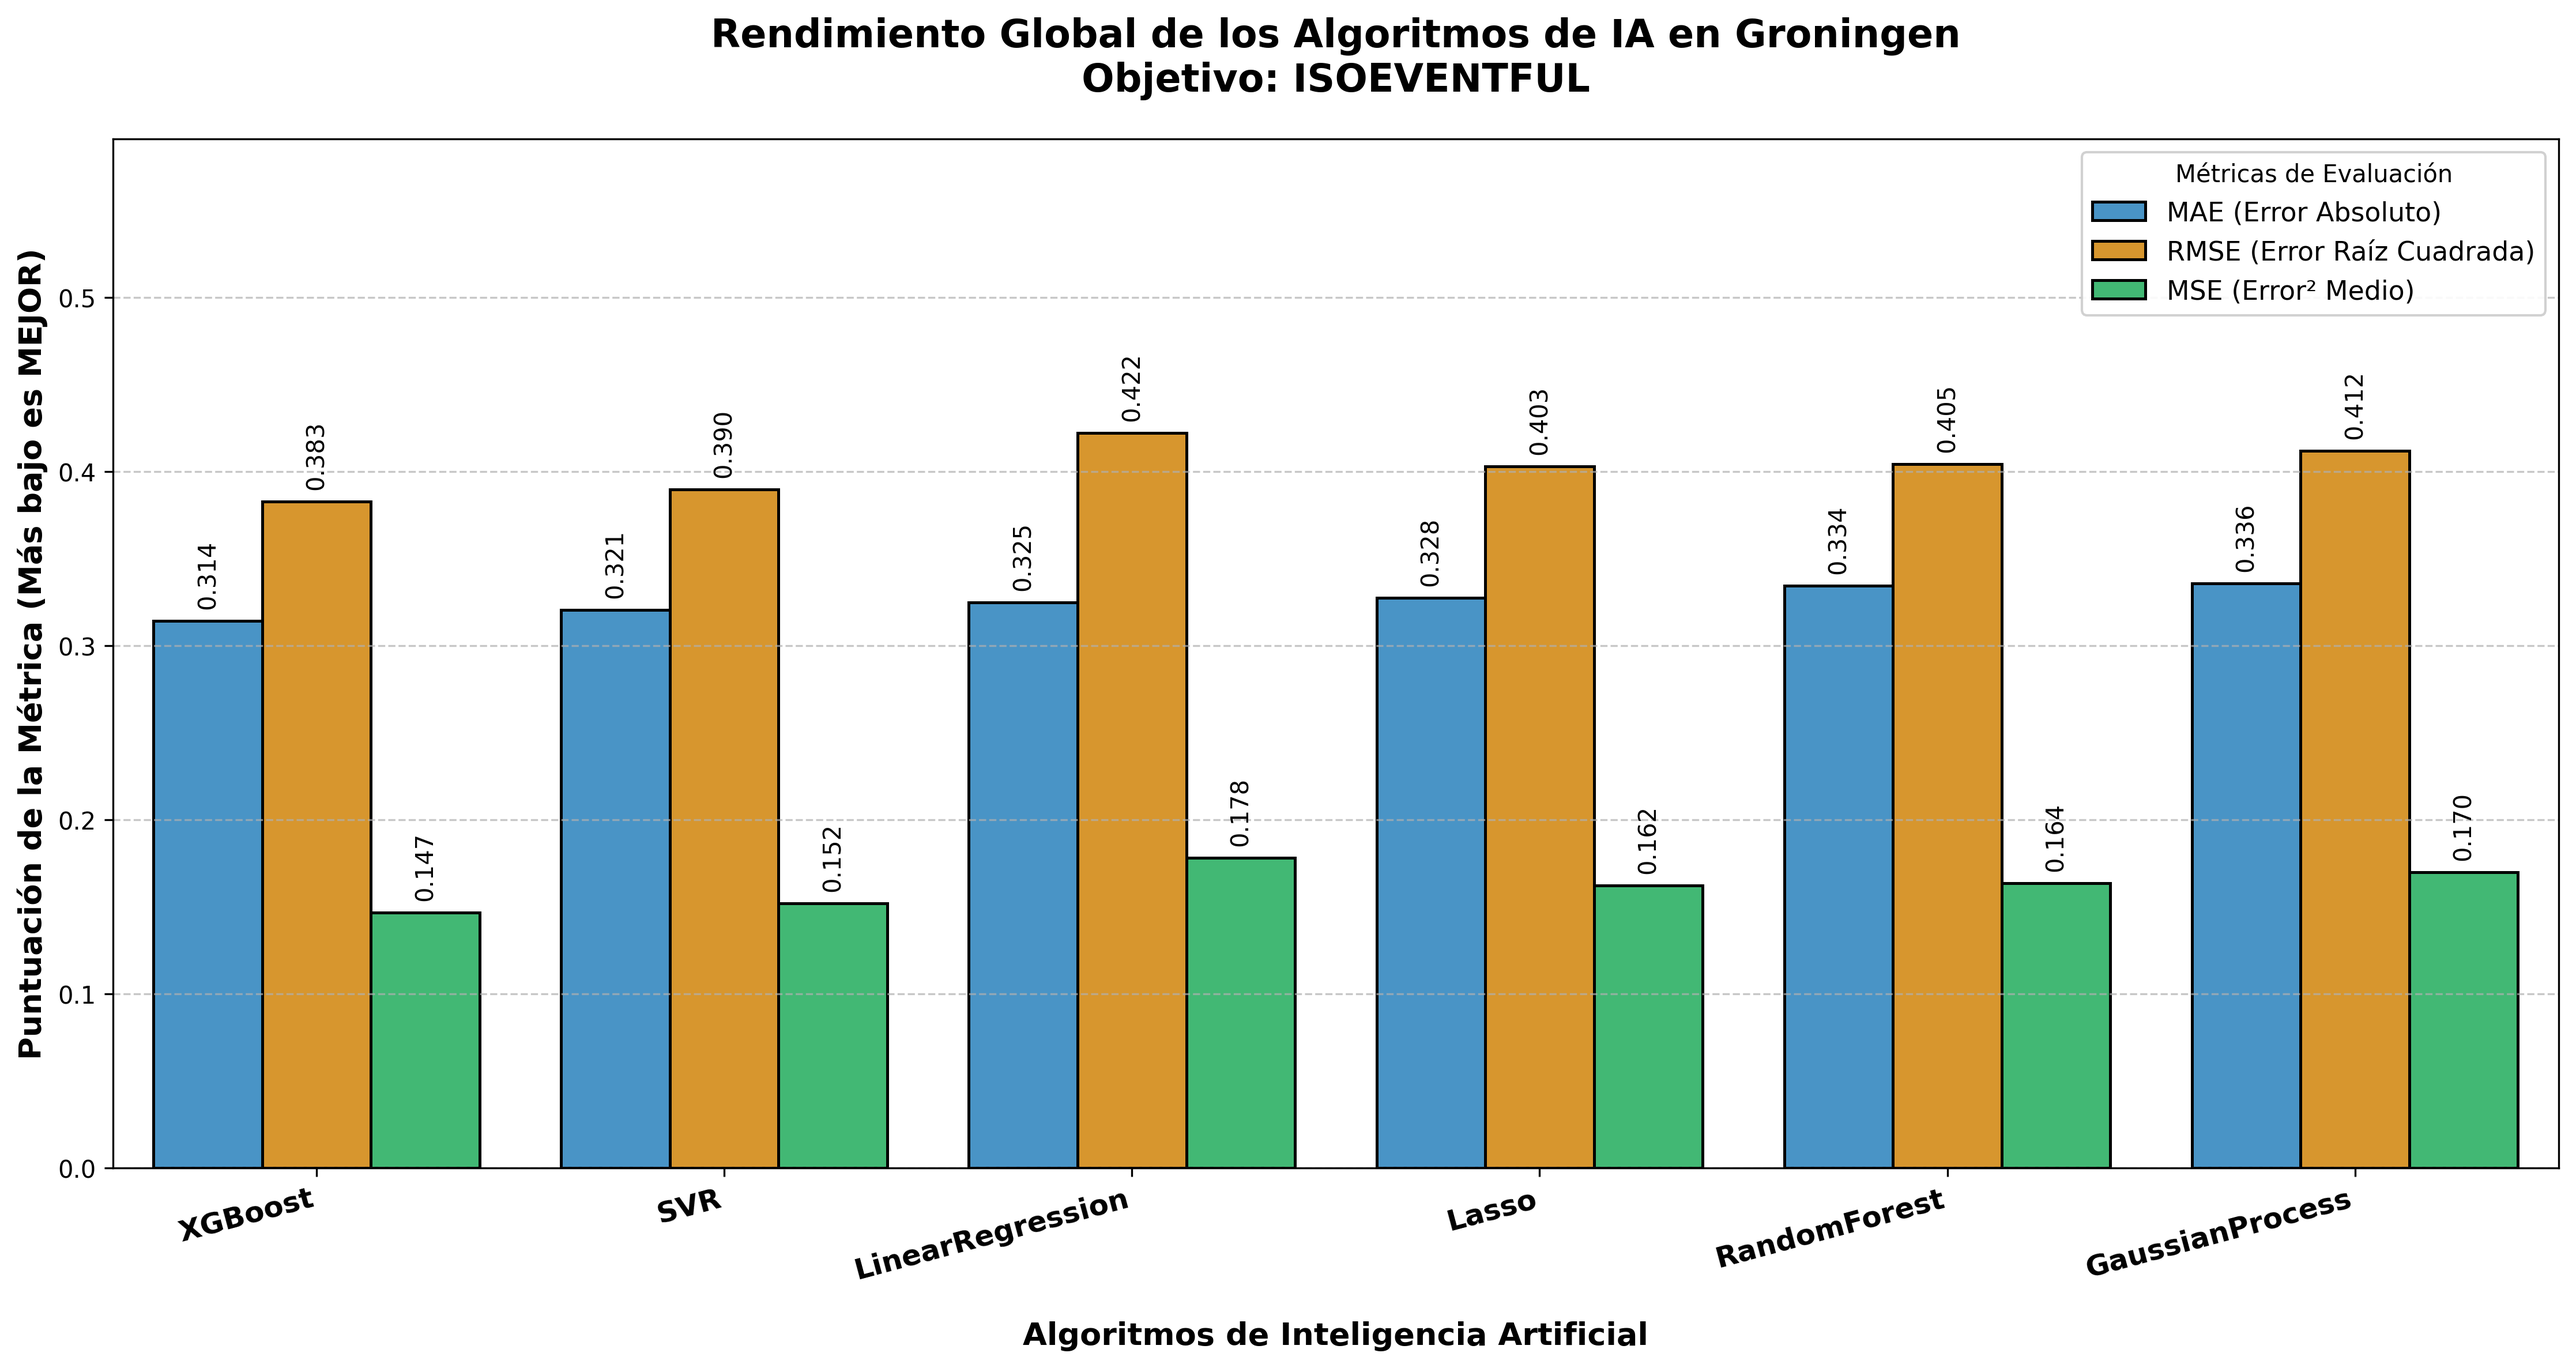
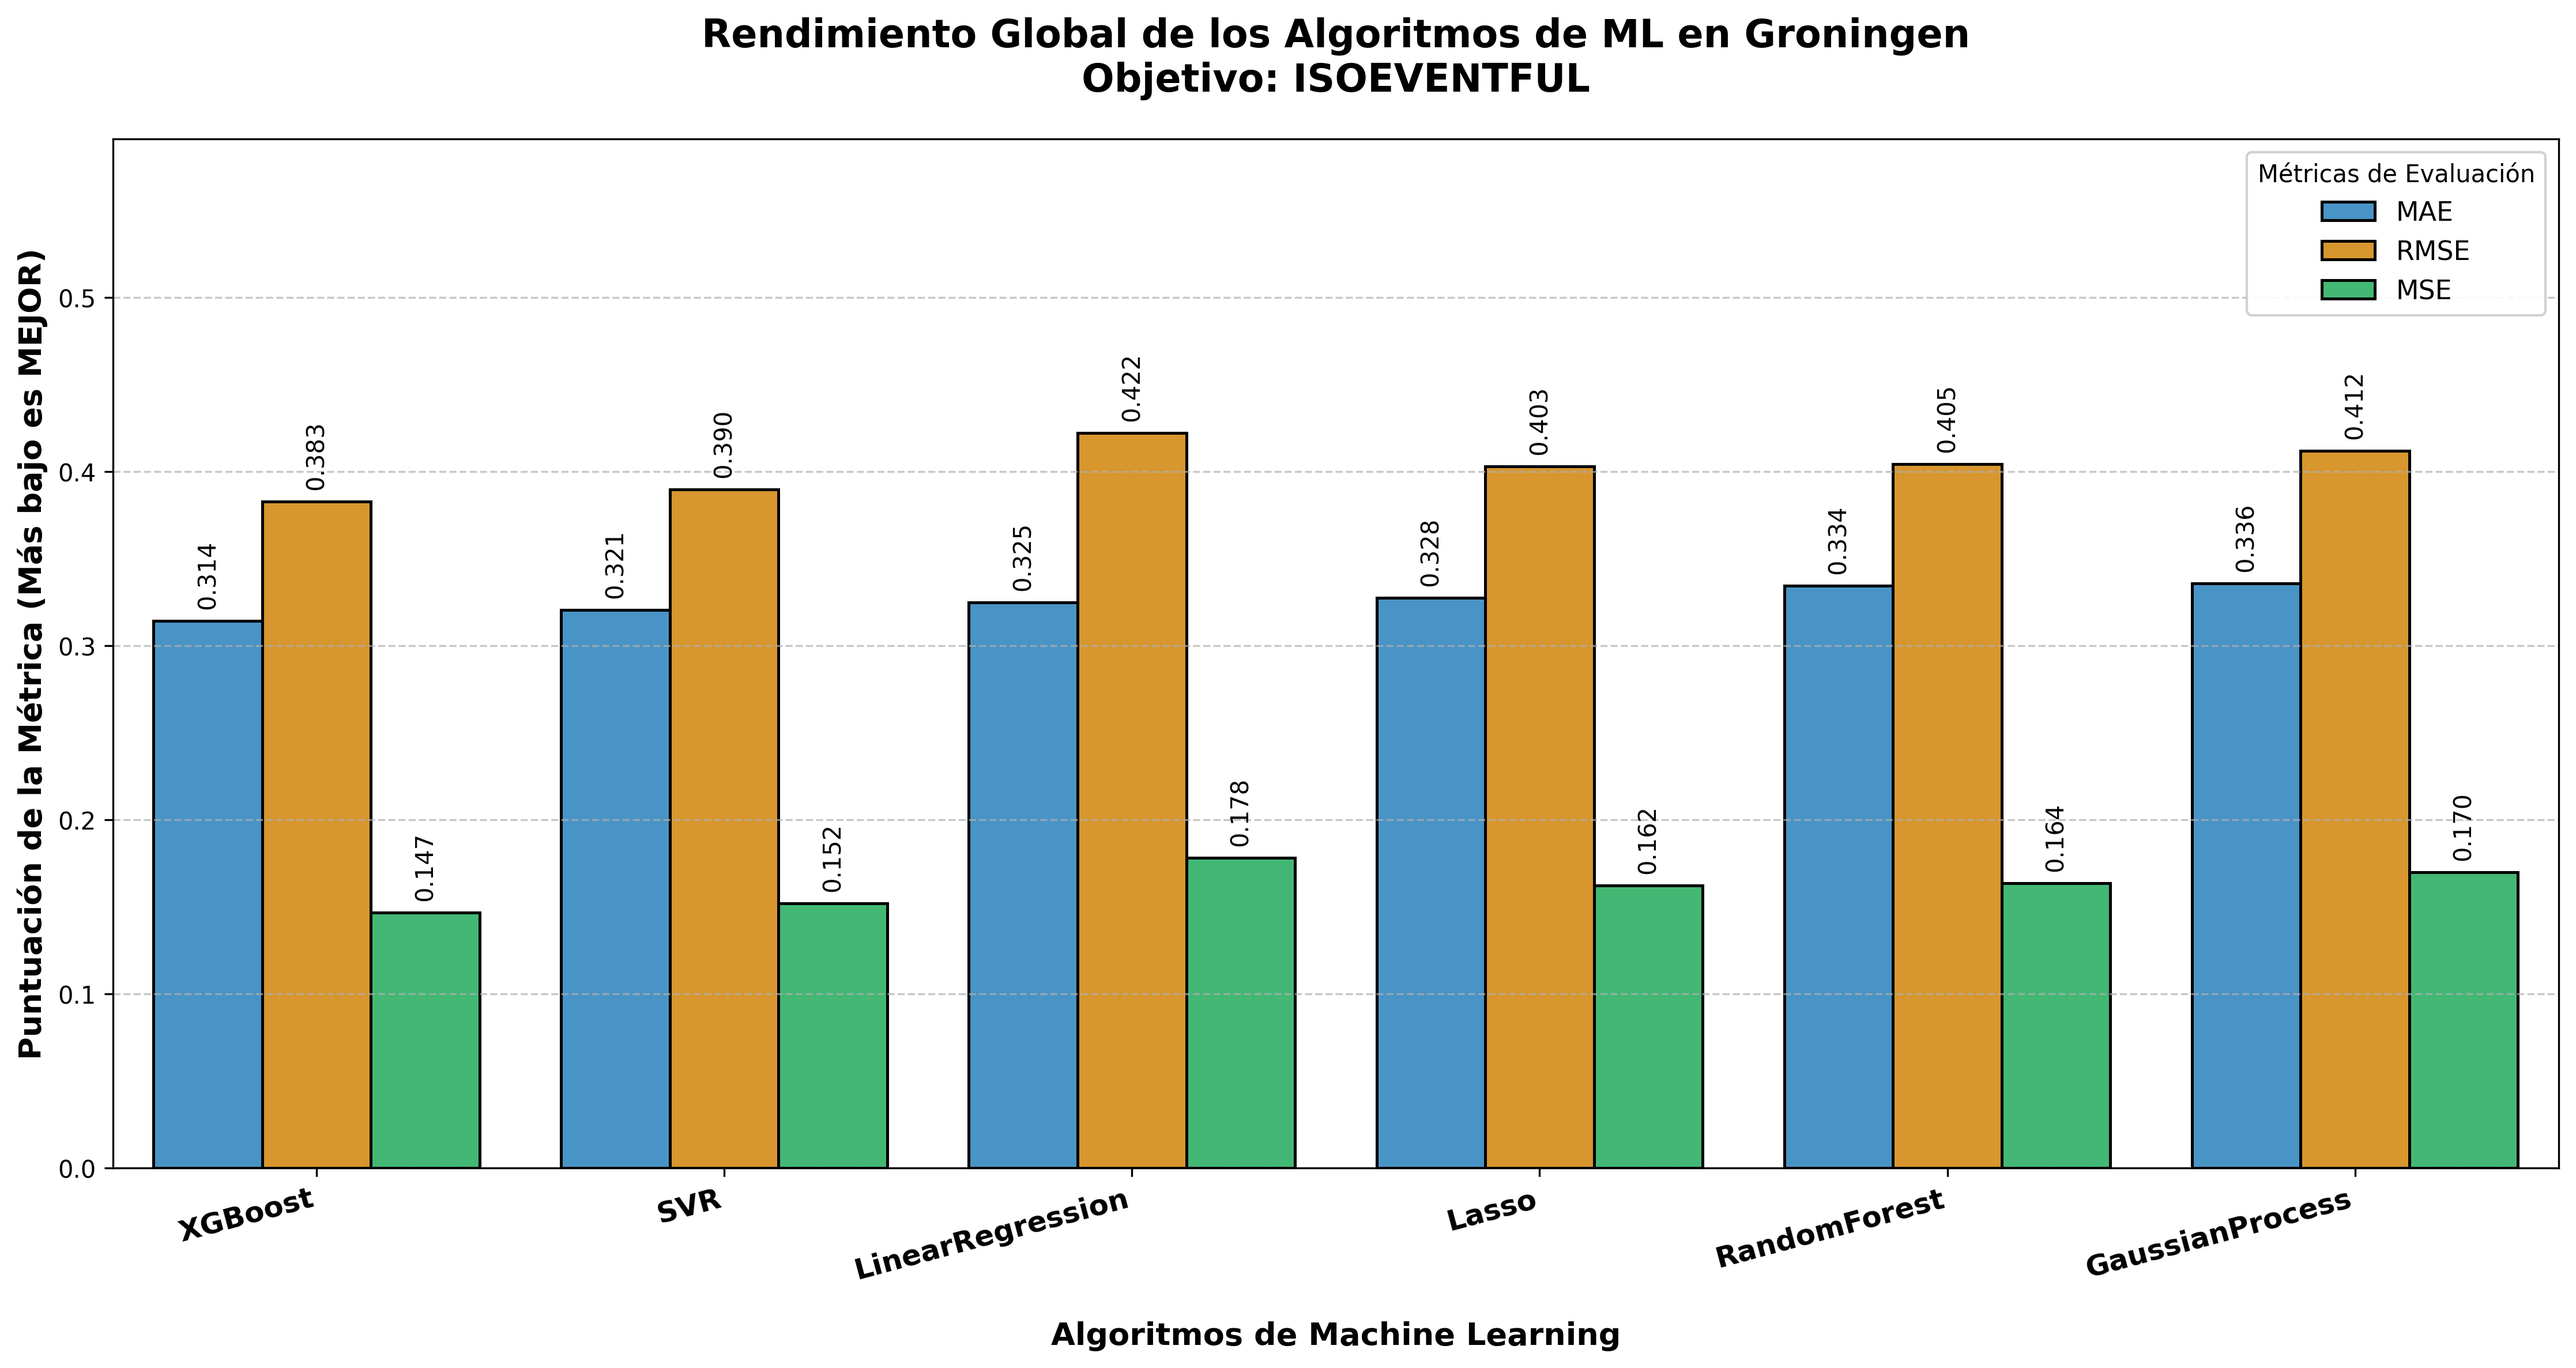
Ligeros cambios 1

Changed region(s): [[0.28, 0.0, 0.7778, 0.0624], [0.8089, 0.1247, 0.9644, 0.2183], [0.4044, 0.9667, 0.6533, 0.9979]]

diff --git a/aprendizaje_maquina.py b/aprendizaje_maquina.py
@@ -297,15 +297,15 @@ def evaluar_individuos_singles(mejores_modelos, X_test, y_test_real, mask_grupos
         
         resultados_evaluacion.append({
             "Modelo": nombre_modelo,
-            "R2 (Varianza Explicada)": r2,
-            "MAE (Error Absoluto)": mae,
-            "RMSE (Error Raíz Cuadrada)": rmse,
-            "MSE (Error² Medio)": mse
+            "R2": r2,
+            "MAE": mae,
+            "RMSE": rmse,
+            "MSE": mse
         })
         
     df_resultados = pd.DataFrame(resultados_evaluacion)
     # Ordeno de mejor a peor según R2
-    df_resultados = df_resultados.sort_values(by="R2 (Varianza Explicada)", ascending=False).reset_index(drop=True)
+    df_resultados = df_resultados.sort_values(by="R2", ascending=False).reset_index(drop=True)
     df_resultados = df_resultados.round(4)
     
     print(df_resultados.to_string(index=False))
@@ -397,7 +397,7 @@ def generar_tabla_resumen_global(df_singles, df_grupos, target_name):
     # Hago un merge (como un BUSCARV en Excel) uniendo por la columna 'Modelo'
     df_global = pd.merge(df_singles, df_grupos, on='Modelo', how='inner')
     # Ordeno la tabla general fijándome en quién tiene menor MAE
-    df_global = df_global.sort_values(by='MAE (Error Absoluto)', ascending=True).reset_index(drop=True)
+    df_global = df_global.sort_values(by='MAE', ascending=True).reset_index(drop=True)
 
     print(df_global.to_string(index=False))
     
@@ -469,9 +469,9 @@ def generar_auditoria_individual_completa(mejores_modelos, X_train, y_train, X_t
             mse = mean_squared_error(y_real, y_pred)
             filas_plot.extend([
                 {'Métrica': 'R2 (Nota /100%)', 'Valor': r2_score(y_real, y_pred), 'Fase': fase_nombre},
-                {'Métrica': 'MAE (Error Absoluto)', 'Valor': mean_absolute_error(y_real, y_pred), 'Fase': fase_nombre},
-                {'Métrica': 'RMSE (Error Medio)', 'Valor': np.sqrt(mse), 'Fase': fase_nombre},
-                {'Métrica': 'MSE (Error² Medio)', 'Valor': mse, 'Fase': fase_nombre}
+                {'Métrica': 'MAE', 'Valor': mean_absolute_error(y_real, y_pred), 'Fase': fase_nombre},
+                {'Métrica': 'RMSE', 'Valor': np.sqrt(mse), 'Fase': fase_nombre},
+                {'Métrica': 'MSE', 'Valor': mse, 'Fase': fase_nombre}
             ])
             
         df_plot = pd.DataFrame(filas_plot)
@@ -481,7 +481,7 @@ def generar_auditoria_individual_completa(mejores_modelos, X_train, y_train, X_t
         fig.suptitle(f'Auditoría de Aprendizaje y Generalización\nModelo: {nombre_modelo} ({target_name})', 
                      fontsize=18, fontweight='bold', y=0.98)
         
-        metricas_unicas = ['R2 (Nota /100%)', 'MAE (Error Absoluto)', 'RMSE (Error Medio)', 'MSE (Error² Medio)']
+        metricas_unicas = ['R2 (Nota /100%)', 'MAE', 'RMSE', 'MSE']
         colores_fases = ["#3498db", "#f39c12", "#e74c3c"] # Azul (Train), Naranja (Val), Rojo (Test)
         
         for i, ax in enumerate(axes.flatten()):
@@ -541,7 +541,7 @@ def generar_comparativa_global_ias(df_resumen_global, target_name):
         return
 
     # 1. SELECCIÓN DE MÉTRICAS A COMPARAR
-    metricas_cols = ['MAE (Error Absoluto)', 'RMSE (Error Raíz Cuadrada)', 'MSE (Error² Medio)']
+    metricas_cols = ['MAE', 'RMSE', 'MSE']
     
     # Comprobación de seguridad para evitar errores si la columna tiene otro nombre
     columnas_presentes = [col for col in metricas_cols if col in df_resumen_global.columns]
@@ -575,10 +575,10 @@ def generar_comparativa_global_ias(df_resumen_global, target_name):
     )
     
     # Estética y Títulos
-    plt.title(f'Rendimiento Global de los Algoritmos de IA en Groningen\nObjetivo: {target_name.upper()}', 
+    plt.title(f'Rendimiento Global de los Algoritmos de ML en Groningen\nObjetivo: {target_name.upper()}', 
               fontsize=16, fontweight='bold', pad=20)
     plt.xticks(rotation=15, ha='right', fontsize=12, fontweight='bold')
-    plt.xlabel('Algoritmos de Inteligencia Artificial', fontsize=13, fontweight='bold', labelpad=15)
+    plt.xlabel('Algoritmos de Machine Learning', fontsize=13, fontweight='bold', labelpad=15)
     plt.ylabel('Puntuación de la Métrica (Más bajo es MEJOR)', fontsize=13, fontweight='bold')
     plt.grid(axis='y', linestyle='--', alpha=0.7)
     
@@ -749,8 +749,8 @@ def generar_super_prediccion_ensamblada(mejores_modelos, df_rank_singles, X_test
     if df_lineales.empty or df_complejos.empty: return
         
     # Elijo al campeón de cada liga basándome en quién tiene el menor error absoluto (MAE)
-    mejor_lineal = df_lineales.sort_values(by='MAE (Error Absoluto)').iloc[0]['Modelo']
-    mejor_complejo = df_complejos.sort_values(by='MAE (Error Absoluto)').iloc[0]['Modelo']
+    mejor_lineal = df_lineales.sort_values(by='MAE').iloc[0]['Modelo']
+    mejor_complejo = df_complejos.sort_values(by='MAE').iloc[0]['Modelo']
     
     print(f"   🏆 Campeón Lineal: {mejor_lineal}")
     print(f"   🏆 Campeón Complejo: {mejor_complejo}")

diff --git a/AM_Global_2.py b/AM_Global_2.py
@@ -299,7 +299,7 @@ def evaluar_ciudad_completa(mejores_modelos, X_test, y_test_real, target_name):
         
         resultados_evaluacion.append({
             "Modelo": nombre_modelo,
-            "MAE (Error Absoluto)": mae,
+            "MAE": mae,
             "RMSE": rmse,
             "MSE": mse,
             "R2 (Varianza)": r2,
@@ -361,10 +361,10 @@ def generar_auditoria_individual(mejores_modelos, X_train, y_train, X_test, y_te
         for fase_nombre, y_real, y_pred in fases:
             mse = mean_squared_error(y_real, y_pred)
             filas.extend([
-                {'Métrica': 'R2 (Varianza Explicada)', 'Valor': r2_score(y_real, y_pred), 'Fase': fase_nombre},
-                {'Métrica': 'MAE (Error Absoluto)', 'Valor': mean_absolute_error(y_real, y_pred), 'Fase': fase_nombre},
-                {'Métrica': 'RMSE (Error Medio)', 'Valor': np.sqrt(mse), 'Fase': fase_nombre},
-                {'Métrica': 'MSE (Error Cuadrático)', 'Valor': mse, 'Fase': fase_nombre}
+                {'Métrica': 'R2', 'Valor': r2_score(y_real, y_pred), 'Fase': fase_nombre},
+                {'Métrica': 'MAE', 'Valor': mean_absolute_error(y_real, y_pred), 'Fase': fase_nombre},
+                {'Métrica': 'RMSE', 'Valor': np.sqrt(mse), 'Fase': fase_nombre},
+                {'Métrica': 'MSE', 'Valor': mse, 'Fase': fase_nombre}
             ])
             
         df_plot = pd.DataFrame(filas)
@@ -373,7 +373,7 @@ def generar_auditoria_individual(mejores_modelos, X_train, y_train, X_test, y_te
         fig, axes = plt.subplots(2, 2, figsize=(14, 10))
         fig.suptitle(f'Auditoría de Generalización: {nombre}\n({target_name.upper()})', fontsize=18, fontweight='bold', y=0.98)
         
-        metricas_unicas = ['R2 (Varianza Explicada)', 'MAE (Error Absoluto)', 'RMSE (Error Medio)', 'MSE (Error Cuadrático)']
+        metricas_unicas = ['R2', 'MAE', 'RMSE', 'MSE']
         # Uso semáforo de colores: Azul (bien/cómodo), Naranja (aviso), Rojo (fuego real/test)
         colores = ["#3498db", "#f39c12", "#e74c3c"] 
         
@@ -437,7 +437,7 @@ def generar_comparativa_global_ias(df_resumen_global, target_name):
 
     # 1. SELECCIÓN DE MÉTRICAS A COMPARAR
     # Cojo el MAE, RMSE y MSE (evalúan a nivel individuo)
-    metricas_cols = ['MAE (Error Absoluto)', 'RMSE', 'MSE']
+    metricas_cols = ['MAE', 'RMSE', 'MSE']
     
     # Comprobación de seguridad por si he cambiado nombres arriba
     columnas_presentes = [col for col in metricas_cols if col in df_resumen_global.columns]
@@ -468,7 +468,7 @@ def generar_comparativa_global_ias(df_resumen_global, target_name):
     plt.title(f'Rendimiento Global de los Algoritmos\nObjetivo: {target_name.upper()}', 
               fontsize=16, fontweight='bold', pad=20)
     plt.xticks(rotation=15, ha='right', fontsize=12, fontweight='bold')
-    plt.xlabel('Algoritmos de Inteligencia Artificial', fontsize=13, fontweight='bold', labelpad=15)
+    plt.xlabel('Algoritmos de Machine Learning', fontsize=13, fontweight='bold', labelpad=15)
     plt.ylabel('Puntuación de la Métrica (Más bajo es MEJOR)', fontsize=13, fontweight='bold')
     plt.grid(axis='y', linestyle='--', alpha=0.7)
     plt.legend(title='Métricas de Evaluación', loc='upper right', framealpha=0.9, fontsize=11)

diff --git a/AM_Londres_1.py b/AM_Londres_1.py
@@ -545,7 +545,7 @@ def generar_comparativa_global_ias(df_resumen_global, target_name):
 
     # 1. SELECCIÓN DE MÉTRICAS A COMPARAR
     # Elegimos dos métricas de precisión individual (MAE, RMSE, MSE) 
-    metricas_cols = ['MAE (Error Absoluto)', 'RMSE (Error Raíz Cuadrada)', 'MSE']
+    metricas_cols = ['MAE', 'RMSE', 'MSE']
     
     # Comprobación de seguridad: Asegurar que las columnas existen en la tabla
     columnas_presentes = [col for col in metricas_cols if col in df_resumen_global.columns]
@@ -569,7 +569,7 @@ def generar_comparativa_global_ias(df_resumen_global, target_name):
     plt.figure(figsize=(15, 8))
     
     # Paleta de colores distintiva para cada métrica
-    colores = ['#3498db', '#9b59b6', '#2ecc71'] 
+    colores = ["#e91dd8", "#f58240", "#e0ee19"] 
     
     # Barplot agrupado
     ax = sns.barplot(
@@ -583,10 +583,10 @@ def generar_comparativa_global_ias(df_resumen_global, target_name):
     )
     
     # Estética y Títulos
-    plt.title(f'Rendimiento Global de los Algoritmos de IA en Londres\nObjetivo: {target_name.upper()}', 
+    plt.title(f'Rendimiento Global de los Algoritmos en Londres\nObjetivo: {target_name.upper()}', 
               fontsize=16, fontweight='bold', pad=20)
     plt.xticks(rotation=15, ha='right', fontsize=12, fontweight='bold')
-    plt.xlabel('Algoritmos de Inteligencia Artificial', fontsize=13, fontweight='bold', labelpad=15)
+    plt.xlabel('Algoritmos de Machine Learning', fontsize=13, fontweight='bold', labelpad=15)
     plt.ylabel('Puntuación de la Métrica (Más bajo es MEJOR)', fontsize=13, fontweight='bold')
     plt.grid(axis='y', linestyle='--', alpha=0.7)
     

diff --git a/Prueba_Londres_ia_1.py b/Prueba_Londres_ia_1.py
@@ -492,7 +492,7 @@ def generar_comparativa_global_ias(df_resumen_global, target_name):
         print(f"   ⚠ No hay datos globales para {target_name}. Saltando gráfica.")
         return
 
-    metricas_cols = ['MAE (Error Absoluto)', 'RMSE (Error Raíz Cuadrada)', 'MSE']
+    metricas_cols = ['MAE', 'RMSE', 'MSE']
     columnas_presentes = [col for col in metricas_cols if col in df_resumen_global.columns]
     
     if not columnas_presentes:
@@ -507,7 +507,7 @@ def generar_comparativa_global_ias(df_resumen_global, target_name):
     )
     
     plt.figure(figsize=(15, 8))
-    colores = ['#3498db', '#9b59b6', '#2ecc71'] 
+    colores = ["#40e7b0", "#85124b", "#eb6565"] 
     
     ax = sns.barplot(
         data=df_melted, 
@@ -519,10 +519,10 @@ def generar_comparativa_global_ias(df_resumen_global, target_name):
         linewidth=1.2
     )
     
-    plt.title(f'Rendimiento Global de los Algoritmos de IA en Londres\nObjetivo: {target_name.upper()}', 
+    plt.title(f'Rendimiento Global de los Algoritmos en Londres\nObjetivo: {target_name.upper()}', 
               fontsize=16, fontweight='bold', pad=20)
     plt.xticks(rotation=15, ha='right', fontsize=12, fontweight='bold')
-    plt.xlabel('Algoritmos de Inteligencia Artificial', fontsize=13, fontweight='bold', labelpad=15)
+    plt.xlabel('Algoritmos de Machine Learning', fontsize=13, fontweight='bold', labelpad=15)
     plt.ylabel('Puntuación de la Métrica (Más bajo es MEJOR)', fontsize=13, fontweight='bold')
     plt.grid(axis='y', linestyle='--', alpha=0.7)
     plt.legend(title='Métricas de Evaluación', loc='upper right', framealpha=0.9, fontsize=11)
